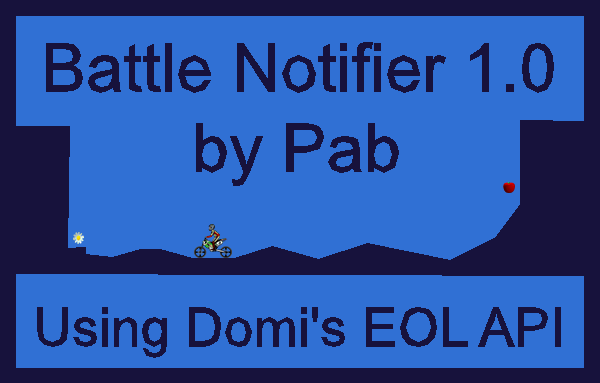
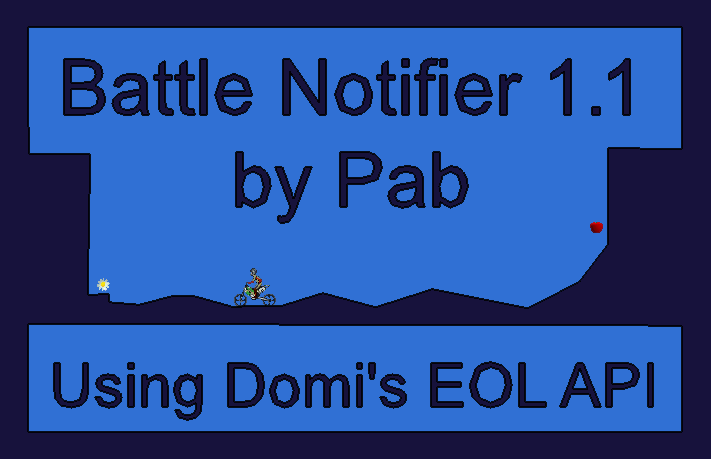
Upgrade users settings, verison 1.1.

diff --git a/BattleNotifier/Properties/Settings.Designer.cs b/BattleNotifier/Properties/Settings.Designer.cs
@@ -406,7 +406,7 @@ namespace BattleNotifier.Properties {
         
         [global::System.Configuration.ApplicationScopedSettingAttribute()]
         [global::System.Diagnostics.DebuggerNonUserCodeAttribute()]
-        [global::System.Configuration.DefaultSettingValueAttribute("False")]
+        [global::System.Configuration.DefaultSettingValueAttribute("True")]
         public bool NeedsUpdate {
             get {
                 return ((bool)(this["NeedsUpdate"]));
@@ -458,6 +458,18 @@ namespace BattleNotifier.Properties {
             }
             set {
                 this["CurrentBattleModifiers"] = value;
+            }
+        }
+        
+        [global::System.Configuration.UserScopedSettingAttribute()]
+        [global::System.Diagnostics.DebuggerNonUserCodeAttribute()]
+        [global::System.Configuration.DefaultSettingValueAttribute("False")]
+        public bool HasUpgrade {
+            get {
+                return ((bool)(this["HasUpgrade"]));
+            }
+            set {
+                this["HasUpgrade"] = value;
             }
         }
     }

diff --git a/BattleNotifier/UserSettings.cs b/BattleNotifier/UserSettings.cs
@@ -124,18 +124,21 @@ namespace BattleNotifier
             MainPanel mainPanel = instance.mainPanel;
             SettingsPanel settingsPanel = instance.settingsPanel;
 
-            /*if (settings.NeedsUpdate)
+            if (settings.NeedsUpdate)
             {
                 try
                 {
-                    settings.Upgrade();
-                    //settings.NeedsUpdate = false;
+                    if (!settings.HasUpgrade)
+                    {
+                        settings.Upgrade();
+                        settings.HasUpgrade = true;
+                    }
                 }
                 catch (Exception ex)
                 {
                     Logger.Log(401, ex);
                 }
-            }*/
+            }
 
             // Main panel user settings.
             mainPanel.PlaySoundCheckBox.Checked = settings.PlayNotificationSound;

diff --git a/BattleNotifier/View/MainPanel.Designer.cs b/BattleNotifier/View/MainPanel.Designer.cs
@@ -368,7 +368,7 @@
             this.ShowCurrentButton.TabIndex = 54;
             this.ShowCurrentButton.Text = "Show last battle";
             this.ToolTip.SetToolTip(this.ShowCurrentButton, "Click to notificate the last started battle, filters don\'t matter.\r\nSet a global " +
-        "hotkey below.");
+        "hotkey below. Click the field and press the desired hotkey.");
             this.ShowCurrentButton.UseVisualStyleBackColor = true;
             this.ShowCurrentButton.Click += new System.EventHandler(this.ShowCurrentButton_Click);
             // 

diff --git a/BattleNotifier/Properties/AssemblyInfo.cs b/BattleNotifier/Properties/AssemblyInfo.cs
@@ -32,5 +32,5 @@ using System.Runtime.InteropServices;
 // You can specify all the values or you can default the Build and Revision Numbers 
 // by using the '*' as shown below:
 // [assembly: AssemblyVersion("1.0.*")]
-[assembly: AssemblyVersion("1.0.0.0")]
-[assembly: AssemblyFileVersion("1.0.0.0")]
+[assembly: AssemblyVersion("1.1.0.0")]
+[assembly: AssemblyFileVersion("1.1.0.0")]

diff --git a/BattleNotifier/View/Controls/HotkeyControl.cs b/BattleNotifier/View/Controls/HotkeyControl.cs
@@ -317,7 +317,7 @@ namespace BattleNotifier.View.Controls
             string display = this._modifiers.ToString();
             if (display.Contains("Control"))
                 display = display.Replace("Control", "Ctrl");
-            return display.Replace(',', '+');
+            return display.Replace(",", " +");
         }
     }
 }
